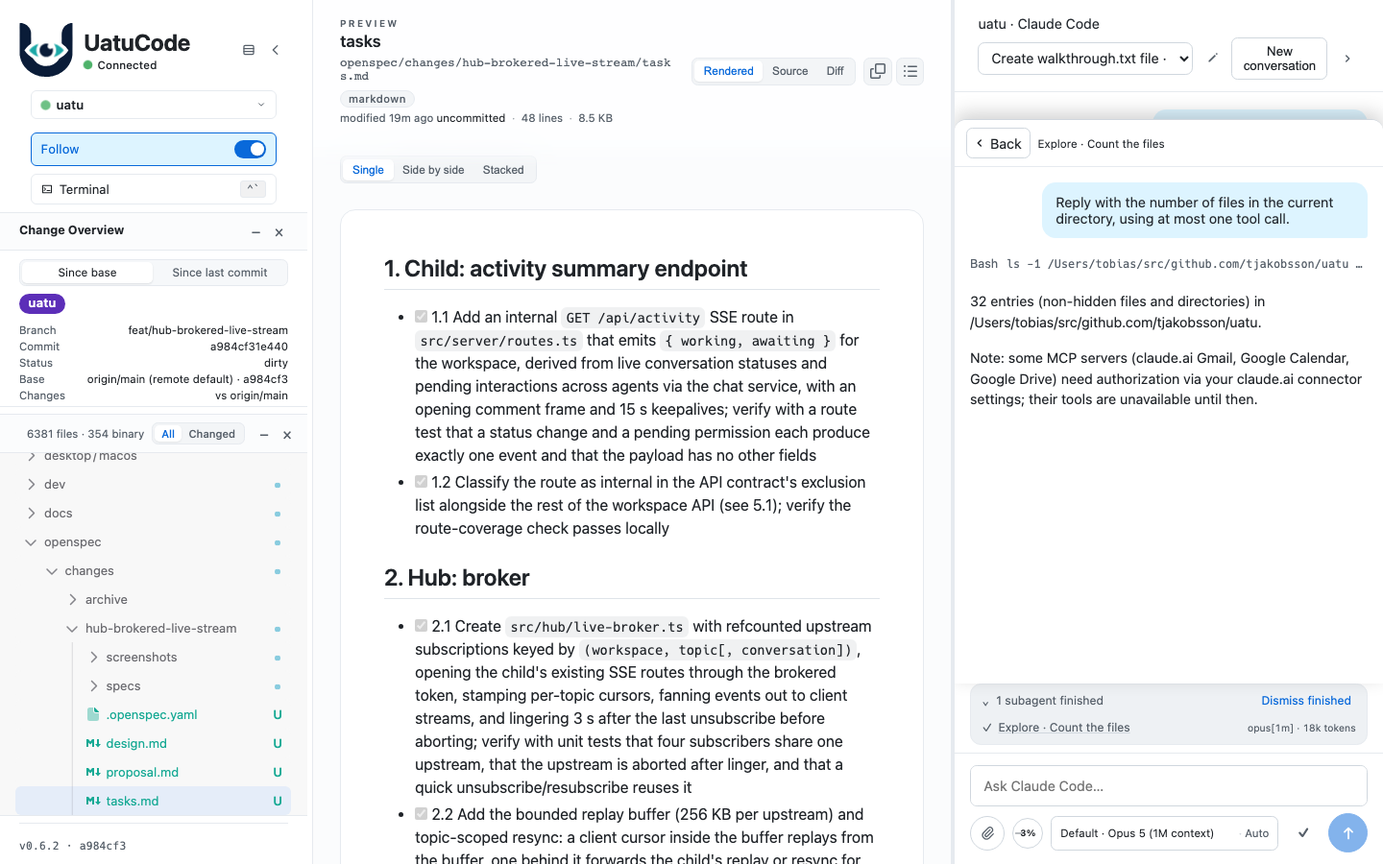
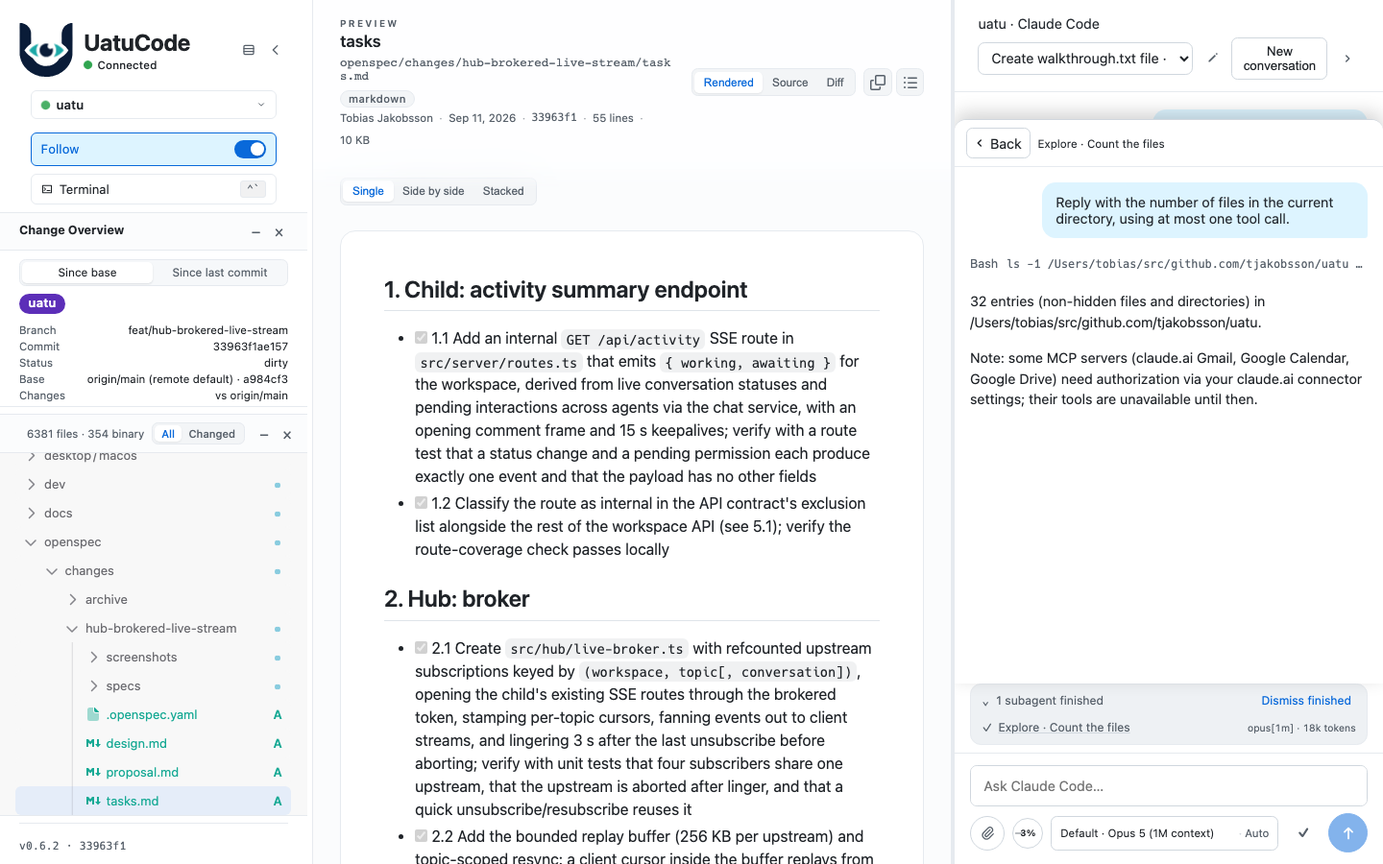
fix(api): keep personal state public as a Hub operation
The contract made `/s/{workspaceId}/api/personal-state` internal along with
the workspace API because of its prefix, but the Hub serves and stores it
itself (no child path). Under the change's own rule (the Hub publishes what
it serves, and keeps what it proxies to the child internal), it belongs in
the Hub API.

- Both operations are public again with their ids, path, auth, and schemas
  unchanged from main, now in the `hub` domain; the restored schemas are
  byte-identical to main's, so no client break and no revision bump.
- Route coverage requires every path the Hub answers itself under `/s/` to
  be a public Hub operation without a child path, and the reverse.
- The compatibility checker assigns a domain by tag before path, so a later
  break in personal state asks for a Hub revision, not a workspace one.
- The hub integration test validates GET/PATCH 200, PATCH 400, and the
  unknown-workspace 404 against the published schemas again.

diff --git a/api/route-coverage.test.ts b/api/route-coverage.test.ts
@@ -126,6 +126,8 @@ test("Hub dispatch families are public or explicitly excluded", async () => {
     ["hubUnassignCredential", "const action ="],
     ["hubTestCredential", "const action ="],
     ["hubDeleteCredential", "const action ="],
+    ["workspaceGetPersonalState", 'suffix === "/api/personal-state"'],
+    ["workspacePatchPersonalState", 'suffix === "/api/personal-state"'],
   ] as const;
   expect(hub.map(item => item.operationId).sort()).toEqual(expected.map(item => item[0]).sort());
   for (const [, marker] of expected) expect(source).toContain(marker);
@@ -139,6 +141,16 @@ test("Hub dispatch families are public or explicitly excluded", async () => {
     item.pathPattern?.endsWith("*") && path.startsWith(item.pathPattern.slice(0, -1)),
   );
   expect(exactPaths.filter(path => !publicPaths.has(path) && !excludedPaths.has(path) && !matchesExcludedPattern(path))).toEqual([]);
+  // Under a workspace prefix the Hub dispatches on the suffix after
+  // SESSION_PATH. A suffix it answers itself, such as personal state, is a
+  // public Hub operation. The rest of the prefix is proxied to the child and
+  // classified by the child-route check.
+  expect(source).toContain("const SESSION_PATH = /^\\/s\\/([^/]+)(\\/|$)/;");
+  const hubServedWorkspacePaths = [...source.matchAll(/suffix === "([^"]+)"/g)].map(match => `/s/{workspaceId}${match[1]!}`);
+  expect(hubServedWorkspacePaths.length).toBeGreaterThan(0);
+  expect(hubServedWorkspacePaths.filter(path => !publicPaths.has(path))).toEqual([]);
+  expect(hub.filter(item => item.path.startsWith("/s/") && !hubServedWorkspacePaths.includes(item.path)).map(item => item.operationId)).toEqual([]);
+  expect(hub.filter(item => item.path.startsWith("/s/") && (item.childPath !== undefined || item.runtime !== "src/hub/server.ts")).map(item => item.operationId)).toEqual([]);
   // Regex dispatch families: every /^\/api\/hub\/.../ route regex in the hub
   // handler, inline or bound to a constant, must match at least one documented hub path (with placeholders
   // substituted), so a new regex family cannot ship undocumented — and every
@@ -155,7 +167,9 @@ test("Hub dispatch families are public or explicitly excluded", async () => {
   for (const regex of routeRegexes) {
     expect(samplePaths.some(path => regex.test(path))).toBe(true);
   }
-  const templatedPaths = hub.filter(item => item.path.includes("{")).map(item => item.path.replace(/\{[^}]+\}/g, "sample"));
+  const templatedPaths = hub
+    .filter(item => item.path.includes("{") && !hubServedWorkspacePaths.includes(item.path))
+    .map(item => item.path.replace(/\{[^}]+\}/g, "sample"));
   for (const path of templatedPaths) {
     expect(routeRegexes.some(regex => regex.test(path))).toBe(true);
   }

diff --git a/api/contract.test.ts b/api/contract.test.ts
@@ -60,8 +60,24 @@ describe("API contract structure", () => {
       readYaml<{ channels: Record<string, { path?: string }> }>("api/streaming.yaml"),
       readYaml<{ exclusions: Array<{ id: string; pathPattern?: string; reason?: string }> }>("api/exclusions.yaml"),
     ]);
-    expect(Object.keys(openapi.paths).filter(path => path.startsWith("/s/"))).toEqual([]);
-    expect(inventory.operations.filter(operation => operation.domain !== "hub" || !operation.operationId.startsWith("hub")).map(operation => operation.operationId)).toEqual([]);
+    // The Hub serves personal state itself under the workspace prefix, so it
+    // is a Hub operation. Nothing the Hub proxies to the child is public.
+    const personalStatePath = "/s/{workspaceId}/api/personal-state";
+    expect(Object.keys(openapi.paths).filter(path => path.startsWith("/s/"))).toEqual([personalStatePath]);
+    const hubServed = inventory.operations.filter(operation => operation.path.startsWith("/s/"));
+    expect(hubServed.map(operation => operation.operationId).sort()).toEqual(["workspaceGetPersonalState", "workspacePatchPersonalState"]);
+    for (const operation of hubServed) {
+      expect(operation).toMatchObject({ domain: "hub", runtime: "src/hub/server.ts" });
+      expect(operation.childPath).toBeUndefined();
+    }
+    // The Hub tag is what makes the compatibility check charge a break here
+    // to the Hub revision rather than the workspace revision.
+    const personalState = openapi.paths[personalStatePath] as Record<"get" | "patch", { tags?: string[] }>;
+    expect([personalState.get.tags, personalState.patch.tags]).toEqual([["Hub"], ["Hub"]]);
+    // New operation IDs begin with `hub`. The personal-state IDs predate the
+    // move to the Hub domain and are kept, since a rename breaks generated clients.
+    const retainedIds = new Set(hubServed.map(operation => operation.operationId));
+    expect(inventory.operations.filter(operation => operation.domain !== "hub" || !(operation.operationId.startsWith("hub") || retainedIds.has(operation.operationId))).map(operation => operation.operationId)).toEqual([]);
     expect(Object.entries(streaming.channels).filter(([, channel]) => channel.path?.startsWith("/s/")).map(([name]) => name)).toEqual([]);
     expect(excluded.exclusions.find(item => item.id === "workspace-api")?.pathPattern).toBe("/s/{workspaceId}/api/*");
     // The streams the Hub refuses say where their events went.

diff --git a/src/hub/hub.integration.test.ts b/src/hub/hub.integration.test.ts
@@ -2829,20 +2829,34 @@ describe("hub end to end", () => {
     const diff = await fetch(`${origin}/s/myproject/api/document/diff?id=${encodeURIComponent(documentId!)}`, { headers: { cookie } });
     expect(diff.status).toBe(200);
 
+    // Personal state is a public Hub operation: the Hub answers it itself.
     const personal = await fetch(`${origin}/s/myproject/api/personal-state`, { headers: { cookie } });
     expect(personal.status).toBe(200);
+    await assertContract("GET", "/s/{workspaceId}/api/personal-state", personal);
     const patched = await fetch(`${origin}/s/myproject/api/personal-state`, {
       method: "PATCH",
       headers: { "content-type": "application/json", cookie, origin },
       body: JSON.stringify({ follow: true }),
     });
     expect(patched.status).toBe(200);
+    await assertContract("PATCH", "/s/{workspaceId}/api/personal-state", patched);
     const rejectedPatch = await fetch(`${origin}/s/myproject/api/personal-state`, {
       method: "PATCH",
       headers: { "content-type": "application/json", cookie, origin },
       body: JSON.stringify({ follow: "sideways" }),
     });
     expect(rejectedPatch.status).toBe(400);
+    await assertContract("PATCH", "/s/{workspaceId}/api/personal-state", rejectedPatch);
+    const unknownPersonal = await fetch(`${origin}/s/no-such-workspace/api/personal-state`, { headers: { cookie } });
+    expect(unknownPersonal.status).toBe(404);
+    await assertContract("GET", "/s/{workspaceId}/api/personal-state", unknownPersonal);
+    const unknownPatch = await fetch(`${origin}/s/no-such-workspace/api/personal-state`, {
+      method: "PATCH",
+      headers: { "content-type": "application/json", cookie, origin },
+      body: JSON.stringify({ follow: true }),
+    });
+    expect(unknownPatch.status).toBe(404);
+    await assertContract("PATCH", "/s/{workspaceId}/api/personal-state", unknownPatch);
 
     const inventory = await fetch(`${origin}/s/myproject/api/terminal/sessions`, { headers: { cookie } });
     expect(inventory.status).toBe(200);

diff --git a/scripts/api-contract/compatibility.test.ts b/scripts/api-contract/compatibility.test.ts
@@ -25,6 +25,22 @@ describe("API compatibility policy", () => {
       .not.toThrow();
   });
 
+  test("charges a Hub-tagged operation under a workspace prefix to the Hub", () => {
+    const path = "/s/{workspaceId}/api/personal-state";
+    const hubServed = compareContracts(
+      { paths: { [path]: { get: operation("Hub", { "200": {}, "404": {} }) } } },
+      { paths: { [path]: { get: operation("Hub", { "200": {} }) } } },
+    );
+    expect(hubServed.breaking).toEqual({ hub: [`GET ${path}: removed response 404`], workspace: [] });
+    // A child route proxied under the same prefix stays workspace even when
+    // its tag names neither domain.
+    const proxied = compareContracts(
+      { paths: { "/s/{workspaceId}/api/chat/status": { get: operation("Chat", { "200": {}, "503": {} }) } } },
+      { paths: { "/s/{workspaceId}/api/chat/status": { get: operation("Chat", { "200": {} }) } } },
+    );
+    expect(proxied.breaking).toEqual({ hub: [], workspace: ["GET /s/{workspaceId}/api/chat/status: removed response 503"] });
+  });
+
   test("does not reuse migration guidance from an older revision entry", () => {
     const result = compareContracts(
       { paths: { "/api/hub/state": { get: operation("Hub", { "200": {}, "401": {} }) } } },

diff --git a/scripts/api-contract/compatibility.ts b/scripts/api-contract/compatibility.ts
@@ -16,10 +16,15 @@ function object(value: unknown): JsonObject {
   return value && typeof value === "object" && !Array.isArray(value) ? value as JsonObject : {};
 }
 
+// A tag decides first, then the path. Under /s/ the Hub proxies the
+// workspace child, so an untagged or child-tagged operation there is
+// workspace. An operation the Hub serves itself under /s/ (personal state)
+// carries a Hub tag, and a break in it moves the Hub revision.
 function domainFor(path: string, operation: JsonObject): ApiDomain {
-  const tags = Array.isArray(operation.tags) ? operation.tags.map(String) : [];
-  if (tags.some(tag => tag.toLowerCase().startsWith("workspace")) || path.startsWith("/s/")) return "workspace";
-  return "hub";
+  const tags = Array.isArray(operation.tags) ? operation.tags.map(tag => String(tag).toLowerCase()) : [];
+  if (tags.some(tag => tag.startsWith("workspace"))) return "workspace";
+  if (tags.some(tag => tag.startsWith("hub"))) return "hub";
+  return path.startsWith("/s/") ? "workspace" : "hub";
 }
 
 function operations(contract: JsonObject): Map<string, { domain: ApiDomain; value: JsonObject }> {

diff --git a/openspec/changes/hub-brokered-live-stream/specs/api-contract-publication/spec.md b/openspec/changes/hub-brokered-live-stream/specs/api-contract-publication/spec.md
@@ -1,7 +1,7 @@
 ## MODIFIED Requirements
 
 ### Requirement: Public APIs have one canonical machine-readable contract
-UatuCode SHALL maintain an OpenAPI 3.1 contract for every supported HTTP operation intended for external clients. That public surface is the Hub API: the operations the hub serves at its own origin, including the brokered live stream and its subscription control. The routes served under a workspace prefix (`/s/<id>/`) — the session child's API, including the SSE routes and the activity endpoint the hub subscribes to as its internal hub-to-child protocol, and the per-user state the hub serves there for the page — are internal and MUST NOT be published as public operations; they MUST be classified by an explicit, machine-checkable exclusion. Payload schemas the hub forwards from a workspace on the live stream (document state, conversation events) SHALL remain published as part of that stream's protocol definition and versioned by the workspace revision. The contract SHALL define operation identifiers, authentication, path and query parameters, request bodies, successful responses, documented error responses, and reusable schemas. Supported SSE surfaces SHALL additionally have machine-readable protocol definitions covering event names and payload schemas, topic and signal vocabularies, cursor and reconnection rules, and lifecycle behavior that OpenAPI does not fully express. Internal debug, test-only, HTML, and static-asset routes MAY be excluded, but exclusions MUST be explicit and machine-checkable.
+UatuCode SHALL maintain an OpenAPI 3.1 contract for every supported HTTP operation intended for external clients. That public surface is the Hub API: the operations the hub serves itself, including the brokered live stream and its subscription control. Most are at the hub's own origin. An operation the hub serves itself under a workspace prefix (`/s/<id>/`), such as the per-user personal state it stores for each workspace, is part of the Hub API too and SHALL be published as a Hub operation, versioned by the Hub revision. The routes the hub proxies to the session child under a workspace prefix — the child's API, including the SSE routes and the activity endpoint the hub subscribes to as its internal hub-to-child protocol — are internal and MUST NOT be published as public operations; they MUST be classified by an explicit, machine-checkable exclusion. Payload schemas the hub forwards from a workspace on the live stream (document state, conversation events) SHALL remain published as part of that stream's protocol definition and versioned by the workspace revision. The contract SHALL define operation identifiers, authentication, path and query parameters, request bodies, successful responses, documented error responses, and reusable schemas. Supported SSE surfaces SHALL additionally have machine-readable protocol definitions covering event names and payload schemas, topic and signal vocabularies, cursor and reconnection rules, and lifecycle behavior that OpenAPI does not fully express. Internal debug, test-only, HTML, and static-asset routes MAY be excluded, but exclusions MUST be explicit and machine-checkable.
 
 #### Scenario: Agent discovers an HTTP operation
 - **WHEN** an agent reads the published OpenAPI contract
@@ -15,6 +15,11 @@ UatuCode SHALL maintain an OpenAPI 3.1 contract for every supported HTTP operati
 #### Scenario: The workspace API is internal
 - **WHEN** a supported-route coverage check compares the session child's route inventory with the contract
 - **THEN** every child route is classified as an explicit internal exclusion rather than a public operation
+
+#### Scenario: Hub-served state under a workspace prefix is public
+- **WHEN** a supported-route coverage check compares the hub's own dispatch under a workspace prefix with the contract
+- **THEN** each operation the hub answers itself there, such as reading or patching personal state, is a public Hub operation
+- **AND** a breaking change to it requires a Hub revision, not a workspace revision
 
 #### Scenario: Internal routes are omitted deliberately
 - **WHEN** a supported-route coverage check compares the application route inventory with the contract

diff --git a/api/CHANGELOG.md b/api/CHANGELOG.md
@@ -8,7 +8,8 @@ Compatibility: breaking (workspace); additive (Hub)
 
 ### Changes
 
-- The Hub API is now the whole public contract. The workspace API under `/s/{workspaceId}/` left it: every `workspace*` operation, the `workspaceState`, `workspaceChat`, `workspaceChatConversationInventory`, and `workspaceSearch` streaming channels, and the terminal WebSocket. Those routes are the internal protocol between the Hub, the workspace child, and the web client shipped in the same build. `exclusions.yaml` lists them as `workspace-api` and `direct-child-api`.
+- The Hub API is now the whole public contract. The workspace API under `/s/{workspaceId}/` left it: every `workspace*` operation except the two personal-state operations, the `workspaceState`, `workspaceChat`, `workspaceChatConversationInventory`, and `workspaceSearch` streaming channels, and the terminal WebSocket. Those routes are the internal protocol between the Hub, the workspace child, and the web client shipped in the same build. `exclusions.yaml` lists them as `workspace-api` and `direct-child-api`.
+- `workspaceGetPersonalState` and `workspacePatchPersonalState` (`GET` and `PATCH /s/{workspaceId}/api/personal-state`) stay public, as Hub operations. The Hub stores personal state and answers these requests itself, without proxying them to the child, so `hubApiRevision` now versions them. Their operation IDs, path, authentication, and schemas are unchanged.
 - Added `hubStreamLive` (`GET /api/hub/live`), one Server-Sent Events connection per client. Each `live` event is an envelope `{ ws, topic, key?, cursor, event }` for one of four topics. `document` carries `WorkspaceState` snapshots, `inventory` carries `ConversationInventoryEvent`, `conversation` carries one conversation's `ChatEvent`s, and `activity` carries a `WorkspaceActivity` summary (`running`, `working`, `awaiting`) for every workspace the caller may access. Each subscription has its own cursor, and the `ready`, `resync`, and `unavailable` signals affect one subscription only. The `live` channel in `streaming.yaml` defines the protocol.
 - Added `hubUpdateLiveSubscriptions` (`POST /api/hub/live/{streamId}/subscriptions`), which adds and removes subscriptions on an open stream without reconnecting.
 - The Hub no longer proxies `/s/{workspaceId}/api/events`, `/s/{workspaceId}/api/chat/conversations/events`, or `/s/{workspaceId}/api/chat/conversations/{conversationId}/events`. It answers them, and the new internal `/s/{workspaceId}/api/activity`, with `410 Gone`, `Cache-Control: no-store`, and a JSON body whose `replacement` is `/api/hub/live`.
@@ -25,7 +26,7 @@ Workspace clients have no public contract at workspace revision 16. A client tha
 - Open one stream per client and change its subscriptions with `hubUpdateLiveSubscriptions` rather than opening a connection per topic. After a transport error, open a new stream and present every retained cursor in `subs`.
 - Replace `uatu serve` and `uatu watch` with `uatu hub`, and reach workspaces through the Hub. `docs/SELF-HOSTING.md` has the bootstrap steps.
 
-The other workspace routes, meaning documents, search, chat mutations, personal state, and terminals, have no public replacement in this revision. They keep working for the web client the Hub serves, which ships with the child in the same build. Validators of the forwarded payloads can keep their workspace revision 15 schemas, since only the transport changed.
+The other workspace routes, meaning documents, search, chat mutations, and terminals, have no public replacement in this revision. They keep working for the web client the Hub serves, which ships with the child in the same build. Validators of the forwarded payloads can keep their workspace revision 15 schemas, since only the transport changed. Clients of the personal-state operations need no change.
 
 ## Hub 5 / Workspace 15 - Unreleased
 

diff --git a/api/CONVENTIONS.md b/api/CONVENTIONS.md
@@ -3,8 +3,9 @@
 - `openapi.yaml` is authoritative for HTTP methods, paths, parameters, bodies, responses, and JSON schemas.
 - `streaming.yaml` is authoritative for SSE events, NDJSON items, WebSocket frames, lifecycle rules, and application close codes.
 - `operations.yaml` classifies every public operation and records its current runtime source. `exclusions.yaml` classifies non-public route families.
-- The public contract is the Hub API, at origin-rooted paths. Everything under `/s/{workspaceId}/`, and every root-relative workspace child path, is internal and appears only in `exclusions.yaml`.
-- Operation IDs are stable, lower camel case, and begin with `hub`. The `workspace` prefix belonged to the workspace API, which left the public contract at workspace revision 16.
+- The public contract is the Hub API. What decides it is who answers: an operation the Hub serves itself is public, and a route the Hub proxies to the workspace child is internal. Hub paths are origin-rooted, except personal state, which the Hub serves under `/s/{workspaceId}/api/personal-state`. Every other path under `/s/{workspaceId}/`, and every root-relative workspace child path, is internal and appears only in `exclusions.yaml`.
+- A Hub operation under `/s/{workspaceId}/` carries a Hub tag. The compatibility check reads the tag and charges the operation to the Hub domain rather than to the workspace domain that owns the rest of that prefix.
+- Operation IDs are stable and lower camel case, and new ones begin with `hub`. The `workspace` prefix belonged to the workspace API, which left the public contract at workspace revision 16. `workspaceGetPersonalState` and `workspacePatchPersonalState` kept their IDs when they became Hub operations: renaming an ID breaks generated clients, and the compatibility check counts it as a removed operation.
 - A multiplexed channel lists its topics under `topics`. Each topic names its payload `dataSchema`, an optional `resyncDataSchema`, and the `domain` that owns the payload. The compatibility check charges a payload change to that domain, so a `ChatEvent` break on the Hub's live stream still increments the workspace revision.
 - JSON examples live in `examples/<protocol>/` and use `<variant>.json`. SSE examples are whole frames with `event` and `data`. `scripts/validate-api.ts` validates every example and fails on one it has no schema for. A `live` frame validates twice, as an envelope and against its topic's payload schema.
 - JSON objects are closed with `additionalProperties: false` unless the runtime intentionally permits extensible keys.

diff --git a/api/guides/boundaries.md b/api/guides/boundaries.md
@@ -1,8 +1,10 @@
 # Hub and workspace boundaries
 
-The Hub API is UatuCode's public API. The Hub owns identity, registered workspaces, device sessions, credentials, clone jobs, workspace process lifecycle, and the live stream. The [OpenAPI document](../openapi.yaml) describes all of it, and `hubApiRevision` versions it.
+The Hub API is UatuCode's public API. The Hub owns identity, registered workspaces, device sessions, credentials, clone jobs, workspace process lifecycle, each user's personal workspace state, and the live stream. The [OpenAPI document](../openapi.yaml) describes all of it, and `hubApiRevision` versions it.
 
-The Hub runs each workspace as a child process on a loopback port and proxies it under `/s/{workspaceId}/`. The routes under that prefix cover documents, search, chat, terminals, and personal state. They are the internal protocol between the Hub, the child, and the web client that ships in the same build, so they change with that build and have no public revision. [exclusions.yaml](../exclusions.yaml) lists them so that none disappears silently. Do not build a client on them.
+The Hub runs each workspace as a child process on a loopback port and proxies it under `/s/{workspaceId}/`. The proxied routes cover documents, search, chat, and terminals. They are the internal protocol between the Hub, the child, and the web client that ships in the same build, so they change with that build and have no public revision. [exclusions.yaml](../exclusions.yaml) lists them so that none disappears silently. Do not build a client on them.
+
+Personal state is the exception under that prefix. The Hub stores it per user and workspace and answers `/s/{workspaceId}/api/personal-state` itself, whether or not the workspace is running, so `workspaceGetPersonalState` and `workspacePatchPersonalState` are public Hub operations. What the Hub serves is public, and what it proxies to the child is internal.
 
 Workspace updates reach public clients through the Hub's live stream, `GET /api/hub/live`. A client subscribes to one workspace's document state, its conversation inventory, and the conversations it follows. It can also ask for an activity summary of every workspace it may access: whether each one is running, whether an agent is working, and whether anything awaits the user. The document, inventory, and conversation payloads come from the workspace, so `workspaceApiRevision` versions them.
 

diff --git a/openspec/changes/hub-brokered-live-stream/tasks.md b/openspec/changes/hub-brokered-live-stream/tasks.md
@@ -52,4 +52,4 @@
 - [x] 9.3 Run at most one child replay per upstream; a second subscriber behind the buffer during it takes a topic-scoped resync; verify with a broker unit test that the second lagging subscriber is resynced and no second replay opens
 - [x] 9.4 Count an upstream retry as an open attempt without moving the active gauge, and release only what was counted; verify with a broker unit test that a retried upstream reads one active and zero after release
 - [x] 9.5 Make the child's conversation stream open with an `open` event naming the cursor its live events follow, and have the broker take it as the start of a stream opened without a cursor, catching up a later subscriber with an older cursor instead of marking it ready; verify with broker unit tests for the joiner and for a child that names no start, and with the conversation-route tests
-- [ ] 9.6 Publish `/s/{workspaceId}/api/personal-state` (GET, PATCH) as public Hub operations rather than internal: the Hub serves and stores it (runtime `src/hub/server.ts`, no child path), so it sits on the public side of the Hub-public, child-internal line; keep its path and schemas, move it to the `hub` domain, drop it from the internal exclusions, and update the `api-contract-publication` delta; verify with the route-coverage check, the hub integration test's contract assertions for both operations, and CI's compatibility step run locally
+- [x] 9.6 Publish `/s/{workspaceId}/api/personal-state` (GET, PATCH) as public Hub operations rather than internal: the Hub serves and stores it (runtime `src/hub/server.ts`, no child path), so it sits on the public side of the Hub-public, child-internal line; keep its path and schemas, move it to the `hub` domain, drop it from the internal exclusions, and update the `api-contract-publication` delta; verify with the route-coverage check, the hub integration test's contract assertions for both operations, and CI's compatibility step run locally

diff --git a/api/guides/compatibility.md b/api/guides/compatibility.md
@@ -2,7 +2,7 @@
 
 UatuCode separates product identity from wire compatibility. A version or commit identifies a build; `hubApiRevision` and `workspaceApiRevision` identify incompatible public API generations. The bundled web-client freshness revision is unrelated to native-client compatibility.
 
-`hubApiRevision` covers the Hub's operations and the envelopes of its streams. `workspaceApiRevision` covers the workspace payloads the live stream forwards: `WorkspaceState` on the document topic, `ConversationInventoryEvent` on the inventory topic, and `ChatEvent` and `ChatResyncEvent` on the conversation topic. Since workspace revision 16 the routes under `/s/{workspaceId}/` are internal, and no public revision describes them.
+`hubApiRevision` covers the Hub's operations, including the personal-state operations it serves under `/s/{workspaceId}/`, and the envelopes of its streams. `workspaceApiRevision` covers the workspace payloads the live stream forwards: `WorkspaceState` on the document topic, `ConversationInventoryEvent` on the inventory topic, and `ChatEvent` and `ChatResyncEvent` on the conversation topic. Since workspace revision 16 the routes the Hub proxies under `/s/{workspaceId}/` are internal, and no public revision describes them.
 
 Record the revision pair used to generate or validate a client. At connection time, fetch authenticated Hub state and compare both reported public revisions with the pinned [contract metadata](../contract.json). Each workspace entry also reports the `workspaceApiRevision` its child speaks. It equals the top-level value for the local backend but may differ for backends running children of other builds, so a client reading one workspace's live payloads should compare the per-entry value.
 

diff --git a/api/agent.md b/api/agent.md
@@ -10,7 +10,7 @@ Compact entry point for implementing a Hub API client without reading server sou
 4. [API changelog](https://tjakobsson.github.io/uatu/api/CHANGELOG.md) provides compatibility and migration guidance.
 5. [Source guides](https://tjakobsson.github.io/uatu/docs/guides/) explain workflows but do not override machine-readable schemas.
 
-Routes under `/s/{workspaceId}/` are internal and appear only in [exclusions.yaml](https://tjakobsson.github.io/uatu/api/exclusions.yaml). Do not call them. Workspace updates come from the live stream, `GET /api/hub/live`.
+Routes the Hub proxies under `/s/{workspaceId}/` are internal and appear only in [exclusions.yaml](https://tjakobsson.github.io/uatu/api/exclusions.yaml). Do not call them. The exception is `/s/{workspaceId}/api/personal-state`: the Hub serves it itself, and OpenAPI documents it as a Hub operation. Workspace updates come from the live stream, `GET /api/hub/live`.
 
 If artifacts disagree, stop and report drift. Do not infer a wire shape from examples or prose over the canonical contract.
 
